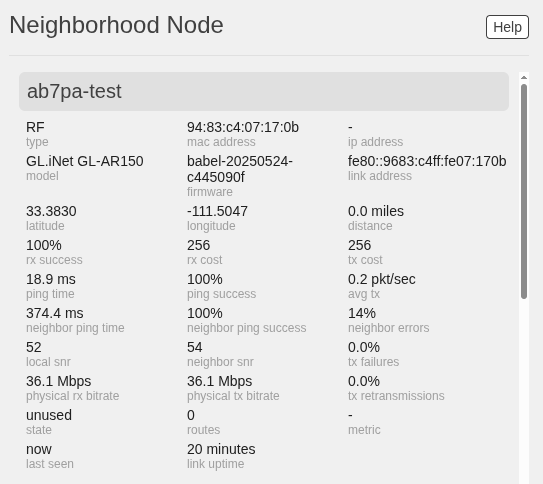
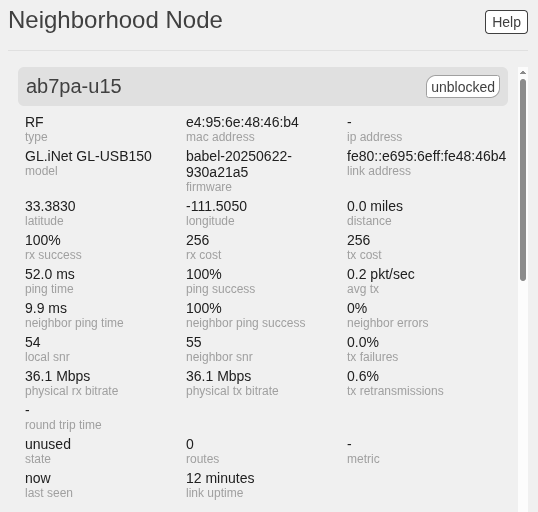
add neighbor RF user blocking (#512)

diff --git a/arednGettingStarted/node_admin.rst b/arednGettingStarted/node_admin.rst
@@ -551,7 +551,7 @@ The node name of each Neighborhood Node is a clickable link which will navigate 
  :alt: Admin Neighbor Node Statistics
  :align: center
 
-The following details may be displayed if available for this node's connection to your node, from top to bottom & left to right:
+To the right of the node’s name there is a field that shows the current link status. Clicking in this field will give you options for handling RF links to this node, including the ability to block or unblock that node’s traffic from reaching your node. The following details may be displayed if available for this node's connection to your node, from top to bottom & left to right:
 
 - :abbr:`type (RF, xlink, tunnel)`, mac address, and ip address
 - model, firmware version, and link address (IPv6 for Babel)
